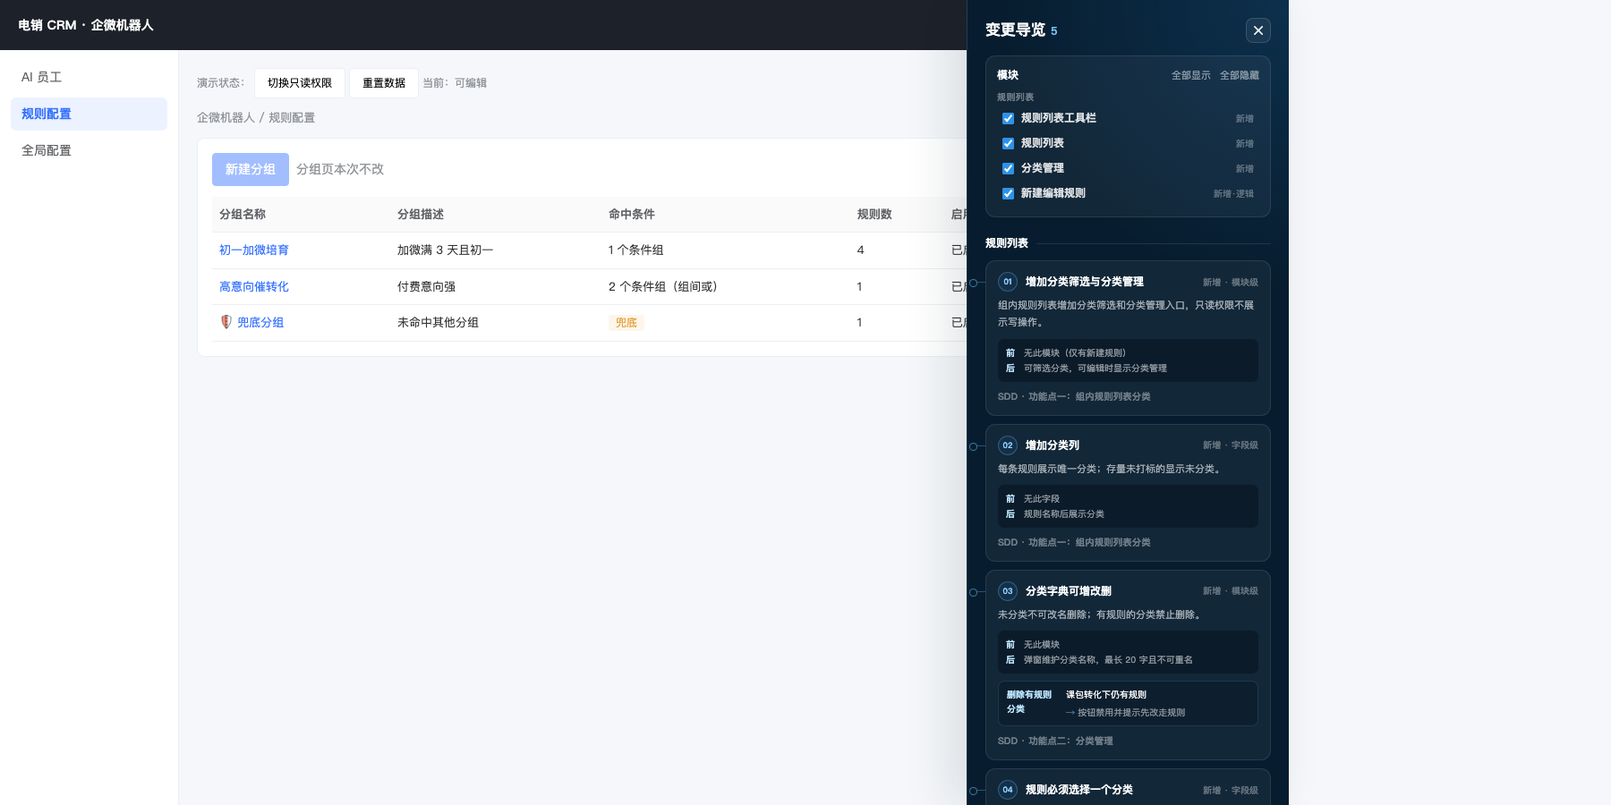
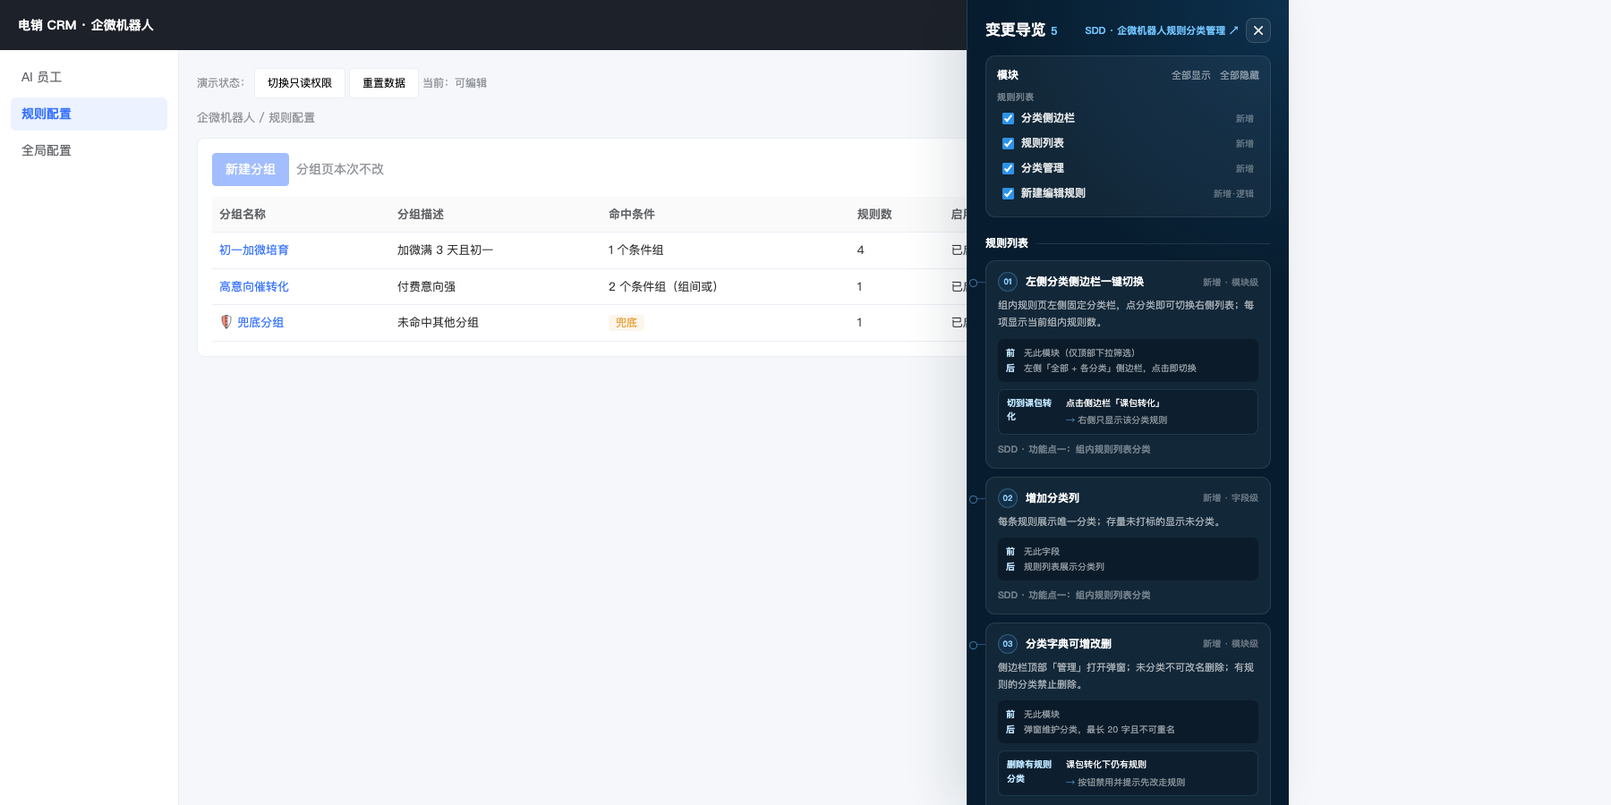
chore: 同步「企微机器人规则分类管理」原型与文档

diff --git a/企微机器人规则分类管理/index.html b/企微机器人规则分类管理/index.html
@@ -20,6 +20,7 @@ main{padding:20px}
 .btn{border:1px solid var(--line);background:#fff;border-radius:4px;padding:7px 14px;cursor:pointer;font:inherit}
 .btn.primary{background:var(--primary);border-color:var(--primary);color:#fff}
 .btn.danger{color:var(--danger);border-color:#fbc4c4}
+.btn.ghost{background:transparent}
 .btn[disabled]{opacity:.45;cursor:not-allowed}
 h1{font-size:18px;margin:0 8px 0 0;display:inline}
 .tag{display:inline-block;padding:0 8px;border-radius:4px;font-size:12px;background:#f0f2f5;color:#606266;margin-right:6px}
@@ -33,7 +34,7 @@ th{background:#fafafa;color:#606266;font-weight:600}
 .sw{width:36px;height:18px;background:#dcdfe6;border-radius:999px;position:relative;display:inline-block;vertical-align:middle;cursor:pointer}
 .sw.on{background:var(--ok)}.sw::after{content:"";position:absolute;top:1px;left:1px;width:16px;height:16px;background:#fff;border-radius:50%}
 .sw.on::after{left:19px}
-select,input[type=text]{border:1px solid #dcdfe6;border-radius:4px;padding:6px 10px;font:inherit;min-width:180px}
+select,input[type=text]{border:1px solid #dcdfe6;border-radius:4px;padding:6px 10px;font:inherit;min-width:160px}
 .err{color:var(--danger);font-size:12px;margin-top:4px}
 .modal-mask{display:none;position:fixed;inset:0;background:rgba(0,0,0,.45);align-items:center;justify-content:center;z-index:20}
 .modal-mask.is-open{display:flex}
@@ -50,6 +51,20 @@ select,input[type=text]{border:1px solid #dcdfe6;border-radius:4px;padding:6px 1
 .req::before{content:"*";color:var(--danger);margin-right:4px}
 .form-row{margin-bottom:14px}
 .form-row label{display:block;margin-bottom:6px}
+/* 组内：分类侧边栏 + 规则列表 */
+.rule-split{display:grid;grid-template-columns:220px 1fr;gap:0;border:1px solid var(--line);border-radius:8px;overflow:hidden;background:#fff;min-height:420px}
+.cat-rail{background:#fafbfc;border-right:1px solid var(--line);padding:12px 8px;display:flex;flex-direction:column}
+.cat-rail__head{display:flex;align-items:center;justify-content:space-between;padding:4px 8px 10px;font-weight:600;font-size:13px;color:#606266}
+.cat-rail__list{flex:1;overflow:auto}
+.cat-item{display:flex;align-items:center;justify-content:space-between;gap:8px;padding:9px 12px;border-radius:6px;cursor:pointer;color:#606266;margin-bottom:2px;user-select:none}
+.cat-item:hover{background:#f0f2f5}
+.cat-item.on{background:#ecf2ff;color:var(--primary);font-weight:600}
+.cat-item .cnt{font-size:12px;color:var(--muted);background:#fff;border:1px solid var(--line);border-radius:999px;min-width:22px;height:20px;display:inline-flex;align-items:center;justify-content:center;padding:0 6px}
+.cat-item.on .cnt{border-color:#c6d7ff;color:var(--primary);background:#fff}
+.cat-item .name{flex:1;min-width:0;overflow:hidden;text-overflow:ellipsis;white-space:nowrap}
+.rule-pane{padding:14px 16px;display:flex;flex-direction:column;min-width:0}
+.rule-pane__title{font-size:13px;color:var(--muted);margin-bottom:10px}
+@media(max-width:900px){.rule-split{grid-template-columns:1fr}.cat-rail{border-right:none;border-bottom:1px solid var(--line)}}
 </style>
 </head>
 <body>
@@ -87,24 +102,34 @@ select,input[type=text]{border:1px solid #dcdfe6;border-radius:4px;padding:6px 1
         <div style="font-weight:600;margin-bottom:6px">命中条件</div>
         <div>年级 等于 初一　且　加微天数 大于等于 3</div>
       </div>
-      <div class="card">
-        <div class="toolbar" id="ruleToolbar"></div>
-        <table>
-          <thead>
-            <tr>
-              <th>规则ID</th>
-              <th>规则名称</th>
-              <th>分类</th>
-              <th>规则描述</th>
-              <th>触发类型</th>
-              <th>动作类型</th>
-              <th>启用状态</th>
-              <th id="opHead">操作</th>
-            </tr>
-          </thead>
-          <tbody id="ruleBody"></tbody>
-        </table>
-        <div class="empty" id="ruleEmpty" style="display:none">当前分类下没有规则</div>
+      <div class="toolbar" id="ruleToolbar"></div>
+      <div class="rule-split" id="ruleSplit">
+        <aside class="cat-rail" id="catRail" data-diff-page="规则列表">
+          <div class="cat-rail__head">
+            <span>规则分类</span>
+            <button class="btn ghost" id="openCatBtn" style="padding:2px 8px;font-size:12px;display:none">管理</button>
+          </div>
+          <div class="cat-rail__list" id="catRailList"></div>
+        </aside>
+        <div class="rule-pane">
+          <div class="rule-pane__title" id="rulePaneTitle">全部规则</div>
+          <table>
+            <thead>
+              <tr>
+                <th>规则ID</th>
+                <th>规则名称</th>
+                <th>分类</th>
+                <th>规则描述</th>
+                <th>触发类型</th>
+                <th>动作类型</th>
+                <th>启用状态</th>
+                <th id="opHead">操作</th>
+              </tr>
+            </thead>
+            <tbody id="ruleBody"></tbody>
+          </table>
+          <div class="empty" id="ruleEmpty" style="display:none">当前分类下没有规则</div>
+        </div>
       </div>
     </div>
   </main>
@@ -155,6 +180,7 @@ const SYSTEM_UNCAT = {id:'uncat', name:'未分类', system:true};
 let canEdit = true;
 let page = 'groups';
 let currentGroupId = 1;
+let activeCat = 'all';
 let editingRuleId = null;
 let cats = [];
 let rules = [];
@@ -168,7 +194,8 @@ function toast(t){const el=document.getElementById('toast');el.textContent=t;el.
 function openModal(id){document.getElementById(id).classList.add('is-open')}
 function closeModal(id){document.getElementById(id).classList.remove('is-open')}
 function catById(id){return cats.find(c=>c.id===id)}
-function ruleCount(catId){return rules.filter(r=>r.groupId===currentGroupId && r.catId===catId).length}
+function groupRuleCount(gid){return rules.filter(r=>r.groupId===gid).length}
+function catCountInGroup(catId){return rules.filter(r=>r.groupId===currentGroupId && r.catId===catId).length}
 function resetData(){
   cats = [
     {...SYSTEM_UNCAT},
@@ -184,37 +211,55 @@ function resetData(){
     {id:201, groupId:2, name:'意向确认', desc:'确认购买意向', type:'用户消息', action:'转人工', catId:'c2', on:true},
     {id:301, groupId:3, name:'兜底话术', desc:'未命中时回复', type:'用户消息', action:'发送文本', catId:'uncat', on:true}
   ];
+  activeCat = 'all';
 }
 
 function renderGroups(){
   document.getElementById('pageGroupList').style.display = page==='groups'?'block':'none';
   document.getElementById('pageRuleList').style.display = page==='rules'?'block':'none';
-  document.getElementById('groupToolbar').innerHTML = canEdit ? '<button class="btn primary" disabled>新建分组</button><span style="color:#909399">分组页本次不改</span>' : '<span style="color:#909399">只读：无新建</span>';
+  document.getElementById('groupToolbar').innerHTML = canEdit
+    ? '<button class="btn primary" disabled>新建分组</button><span style="color:#909399">分组页本次不改</span>'
+    : '<span style="color:#909399">只读：无新建</span>';
   document.getElementById('groupBody').innerHTML = groups.map(g=>`
     <tr>
       <td><a class="link" data-open-group="${g.id}">${g.fallback?'🛡 ':''}${g.name}</a></td>
       <td>${g.desc}</td>
       <td>${g.fallback?'<span class="tag warn">兜底</span>':g.cond}</td>
-      <td>${rules.filter(r=>r.groupId===g.id).length}</td>
+      <td>${groupRuleCount(g.id)}</td>
       <td>${g.on?'已启用':'已禁用'}</td>
       <td><a class="link" data-open-group="${g.id}">查看规则</a>${canEdit?'<a class="link">编辑</a>':''}</td>
     </tr>`).join('');
+}
+
+function renderCatRail(){
+  const total = rules.filter(r=>r.groupId===currentGroupId).length;
+  const items = [
+    {id:'all', name:'全部', count:total},
+    ...cats.map(c=>({id:c.id, name:c.name, count:catCountInGroup(c.id)}))
+  ];
+  if(!items.some(i=>i.id===activeCat)) activeCat = 'all';
+  document.getElementById('catRailList').innerHTML = items.map(it=>`
+    <div class="cat-item ${activeCat===it.id?'on':''}" data-cat="${it.id}">
+      <span class="name">${it.name}</span>
+      <span class="cnt">${it.count}</span>
+    </div>`).join('');
+  const openBtn = document.getElementById('openCatBtn');
+  openBtn.style.display = canEdit ? 'inline-block' : 'none';
 }
 
 function renderRules(){
   const g = groups.find(x=>x.id===currentGroupId);
   document.getElementById('groupTitle').textContent = g.name;
   document.getElementById('groupNameCrumb').textContent = g.name;
-  const filter = document.getElementById('catFilter')?.value || 'all';
-  const list = rules.filter(r=>r.groupId===currentGroupId && (filter==='all'||r.catId===filter));
-  document.getElementById('ruleToolbar').innerHTML = `
-    ${canEdit?'<button class="btn primary" id="newRuleBtn">新建规则</button><button class="btn" id="openCatBtn">分类管理</button>':''}
-    <label>分类筛选
-      <select id="catFilter">
-        <option value="all">全部</option>
-        ${cats.map(c=>`<option value="${c.id}" ${filter===c.id?'selected':''}>${c.name}</option>`).join('')}
-      </select>
-    </label>`;
+  document.getElementById('ruleToolbar').innerHTML = canEdit
+    ? '<button class="btn primary" id="newRuleBtn">新建规则</button>'
+    : '<span style="color:#909399">只读：可切换左侧分类查看</span>';
+  renderCatRail();
+  const catName = activeCat==='all' ? '全部' : (catById(activeCat)?.name || '未分类');
+  document.getElementById('rulePaneTitle').textContent = activeCat==='all'
+    ? `全部规则（${rules.filter(r=>r.groupId===currentGroupId).length}）`
+    : `${catName}（${catCountInGroup(activeCat)}）`;
+  const list = rules.filter(r=>r.groupId===currentGroupId && (activeCat==='all'||r.catId===activeCat));
   document.getElementById('opHead').style.display = canEdit?'table-cell':'none';
   document.getElementById('ruleBody').innerHTML = list.map(r=>`
     <tr>
@@ -228,9 +273,7 @@ function renderRules(){
       ${canEdit?`<td><a class="link" data-edit="${r.id}">编辑</a><a class="link" data-copy="${r.id}">复制</a><a class="link danger" data-del="${r.id}">删除</a></td>`:''}
     </tr>`).join('');
   document.getElementById('ruleEmpty').style.display = list.length?'none':'block';
-  document.getElementById('catFilter').onchange = renderRules;
   document.getElementById('newRuleBtn')?.addEventListener('click', ()=>openRule(null));
-  document.getElementById('openCatBtn')?.addEventListener('click', openCats);
 }
 
 function renderAll(){
@@ -272,7 +315,10 @@ function openRule(id){
   document.getElementById('ruleName').value = r?.name||'';
   document.getElementById('ruleDesc').value = r?.desc||'';
   document.getElementById('ruleCatErr').textContent='';
-  document.getElementById('ruleCat').innerHTML = `<option value="">请选择</option>` + cats.map(c=>`<option value="${c.id}" ${r?.catId===c.id?'selected':''}>${c.name}</option>`).join('');
+  const prefer = r?.catId || (activeCat!=='all'?activeCat:'');
+  document.getElementById('ruleCat').innerHTML =
+    `<option value="">请选择</option>` +
+    cats.map(c=>`<option value="${c.id}" ${prefer===c.id?'selected':''}>${c.name}</option>`).join('');
   openModal('ruleMask');
 }
 
@@ -281,7 +327,10 @@ document.body.addEventListener('click', e=>{
   if(close) closeModal(close);
   if(e.target.id==='catMask'||e.target.id==='ruleMask') closeModal(e.target.id);
   const gid = e.target.dataset.openGroup;
-  if(gid){ currentGroupId=+gid; page='rules'; renderAll(); }
+  if(gid){ currentGroupId=+gid; page='rules'; activeCat='all'; renderAll(); }
+  const cat = e.target.closest('[data-cat]');
+  if(cat){ activeCat = cat.dataset.cat; renderRules(); }
+  if(e.target.id==='openCatBtn') openCats();
   if(e.target.dataset.toggle){
     const r=rules.find(x=>x.id==+e.target.dataset.toggle); if(r&&canEdit){r.on=!r.on; renderAll();}
   }
@@ -307,7 +356,9 @@ document.body.addEventListener('click', e=>{
   if(e.target.dataset.delCat){
     const id=e.target.dataset.delCat;
     if(rules.some(r=>r.catId===id)){ document.getElementById('catFormErr').textContent='该分类下仍有规则，请先将规则改到其他分类后再删除'; return; }
-    cats=cats.filter(c=>c.id!==id); toast('分类已删除'); openCats(); renderAll();
+    cats=cats.filter(c=>c.id!==id);
+    if(activeCat===id) activeCat='all';
+    toast('分类已删除'); openCats(); renderAll();
   }
 });
 
@@ -331,6 +382,7 @@ document.getElementById('saveRuleBtn').onclick=()=>{
   }else{
     rules.push({id:Math.max(...rules.map(r=>r.id))+1, groupId:currentGroupId, name, desc:document.getElementById('ruleDesc').value.trim(), type:'用户消息', action:'发送文本', catId, on:true});
   }
+  activeCat = catId;
   closeModal('ruleMask'); toast('保存成功'); renderAll();
 };
 document.getElementById('backBtn').onclick=()=>{page='groups'; renderAll();};
@@ -338,10 +390,14 @@ document.getElementById('permBtn').onclick=()=>{canEdit=!canEdit; closeModal('ca
 document.getElementById('resetBtn').onclick=()=>{resetData(); page='groups'; canEdit=true; renderAll(); toast('演示已重置');};
 document.addEventListener('keydown', e=>{ if(e.key==='Escape'){closeModal('catMask'); closeModal('ruleMask');}});
 resetData(); renderAll();
-window.__proto = {openGroup(){currentGroupId=1;page='rules';renderAll();}, openCats, openRule};
+window.__proto = {
+  openGroup(){currentGroupId=1;page='rules';activeCat='all';renderAll();},
+  selectCat(id){activeCat=id;page='rules';renderAll();},
+  openCats, openRule
+};
 window.DIFF_HOOKS = {
   locate(change){
-    if(change.page==='规则列表' || change.module==='规则列表工具栏' || change.module==='规则列表'){ currentGroupId=1; page='rules'; renderAll(); }
+    if(change.page==='规则列表' || change.module==='分类侧边栏' || change.module==='规则列表'){ currentGroupId=1; page='rules'; activeCat='all'; renderAll(); }
     if(change.module==='分类管理'){ currentGroupId=1; page='rules'; renderAll(); openCats(); }
     if(change.module==='新建编辑规则'){ currentGroupId=1; page='rules'; renderAll(); openRule(101); }
     if(change.page==='分组列表'){ page='groups'; renderAll(); }
@@ -350,17 +406,17 @@ window.DIFF_HOOKS = {
 window.DIFF_CHANGESET = {
   meta:{
     sddTitle:'SDD · 企微机器人规则分类管理',
-    sddUrl:'',
+    sddUrl:'https://guanghe.feishu.cn/docx/ZRBidHonEoyVC3xg1ZvcAlwHnAd',
     sddType:'feishu',
     demoControls:[
       {id:'perm', label:'权限', default:'edit', options:[{value:'edit',label:'可编辑'},{value:'view',label:'只读'}]}
     ]
   },
   changes:[
-    {id:'chg-1',level:'module',page:'规则列表',module:'规则列表工具栏',target:'#ruleToolbar',type:'new',title:'增加分类筛选与分类管理',desc:'组内规则列表增加分类筛选和分类管理入口，只读权限不展示写操作。',before:'无此模块（仅有新建规则）',after:'可筛选分类，可编辑时显示分类管理',sdd:{section:'功能点一：组内规则列表分类'}},
-    {id:'chg-2',level:'field',page:'规则列表',module:'规则列表',target:'#ruleBody',type:'new',title:'增加分类列',desc:'每条规则展示唯一分类；存量未打标的显示未分类。',before:'无此字段',after:'规则名称后展示分类',sdd:{section:'功能点一：组内规则列表分类'}},
-    {id:'chg-3',level:'module',page:'规则列表',module:'分类管理',target:'#catMask',type:'new',title:'分类字典可增改删',desc:'未分类不可改名删除；有规则的分类禁止删除。',before:'无此模块',after:'弹窗维护分类名称，最长 20 字且不可重名',examples:[{case:'删除有规则分类',input:'课包转化下仍有规则',result:'按钮禁用并提示先改走规则'}],sdd:{section:'功能点二：分类管理'}},
-    {id:'chg-4',level:'field',page:'规则列表',module:'新建编辑规则',target:'#ruleCat',type:'new',title:'规则必须选择一个分类',desc:'新建和编辑保存时未选分类则阻断。',before:'无此字段',after:'必选一个分类，含未分类',examples:[{case:'未选分类保存',input:'分类=请选择',result:'请选择规则分类'}],sdd:{section:'功能点三：规则选择分类'}},
+    {id:'chg-1',level:'module',page:'规则列表',module:'分类侧边栏',target:'#catRail',type:'new',title:'左侧分类侧边栏一键切换',desc:'组内规则页左侧固定分类栏，点分类即可切换右侧列表；每项显示当前组内规则数。',before:'无此模块（仅顶部下拉筛选）',after:'左侧「全部 + 各分类」侧边栏，点击即切换',examples:[{case:'切到课包转化',input:'点击侧边栏「课包转化」',result:'右侧只显示该分类规则'}],sdd:{section:'功能点一：组内规则列表分类'}},
+    {id:'chg-2',level:'field',page:'规则列表',module:'规则列表',target:'#ruleBody',type:'new',title:'增加分类列',desc:'每条规则展示唯一分类；存量未打标的显示未分类。',before:'无此字段',after:'规则列表展示分类列',sdd:{section:'功能点一：组内规则列表分类'}},
+    {id:'chg-3',level:'module',page:'规则列表',module:'分类管理',target:'#catMask',type:'new',title:'分类字典可增改删',desc:'侧边栏顶部「管理」打开弹窗；未分类不可改名删除；有规则的分类禁止删除。',before:'无此模块',after:'弹窗维护分类，最长 20 字且不可重名',examples:[{case:'删除有规则分类',input:'课包转化下仍有规则',result:'按钮禁用并提示先改走规则'}],sdd:{section:'功能点二：分类管理'}},
+    {id:'chg-4',level:'field',page:'规则列表',module:'新建编辑规则',target:'#ruleCat',type:'new',title:'规则必须选择一个分类',desc:'新建和编辑保存时未选分类则阻断；若当前侧边栏已选某分类，新建时默认带上。',before:'无此字段',after:'必选一个分类，含未分类',examples:[{case:'未选分类保存',input:'分类=请选择',result:'请选择规则分类'}],sdd:{section:'功能点三：规则选择分类'}},
     {id:'chg-5',level:'logic',page:'规则列表',module:'新建编辑规则',target:null,type:'logic',title:'复制保留分类',desc:'复制规则或复制分组时，规则带着原来的分类。',before:'无分类字段',after:'副本分类与来源相同',sdd:{section:'功能点三：规则选择分类'}}
   ]
 };

diff --git a/企微机器人规则分类管理/PRD-企微机器人规则分类管理.md b/企微机器人规则分类管理/PRD-企微机器人规则分类管理.md
@@ -5,12 +5,13 @@
 | 版本号 | 修改日期 | 修改原因 | 修订人 |
 |---|---|---|---|
 | v1.0 | 2026-09-22 | 初稿 | AI PRD Writer |
+| v1.1 | 2026-09-22 | 分类改为组内左侧边栏切换 | AI PRD Writer |
 
 ## 二、需求概述
 
 - **背景/现状**：当运营在规则配置中维护大量规则时，组内规则列表无法按业务用途归类查看，查找和改规则成本高。
-- **需求目标**：当运营进入某个规则组的规则列表时，系统应允许按分类查看、筛选和维护规则，且每条规则有且仅有一个分类。
-- **核心逻辑简述**：当运营打开组内规则列表时，系统应展示分类、提供分类筛选和分类管理；当运营新建或编辑规则时，系统应要求选择一个分类后才能保存。
+- **需求目标**：当运营进入某个规则组的规则列表时，系统应通过左侧分类侧边栏一键切换查看规则，且每条规则有且仅有一个分类。
+- **核心逻辑简述**：当运营打开组内规则列表时，系统应在左侧展示「全部」与各分类，点击即可切换右侧列表；当运营新建或编辑规则时，系统应要求选择一个分类后才能保存。
 
 ## 三、术语表
 
@@ -24,7 +25,7 @@
 
 | 功能模块 | 调整内容 |
 |---|---|
-| 组内规则列表 | 增加分类列、分类筛选；可编辑时增加分类管理入口。 |
+| 组内规则列表 | 左侧增加分类侧边栏（全部 + 各分类，显示规则数）；右侧列表增加分类列；可编辑时侧边栏提供分类管理入口。 |
 | 分类管理 | 新增、改名、删除分类；名称全局唯一，最长 20 个字。 |
 | 新建/编辑规则 | 增加必选分类。 |
 | 复制规则/复制分组 | 副本保留原分类。 |
@@ -57,7 +58,7 @@ flowchart TD
 
 可交互原型（公网，点击可直接操作）：https://leo-ai05.github.io/prototypes/%E4%BC%81%E5%BE%AE%E6%9C%BA%E5%99%A8%E4%BA%BA%E8%A7%84%E5%88%99%E5%88%86%E7%B1%BB%E7%AE%A1%E7%90%86/
 
-内网预览（需飞连）：https://pages.yc345.tv/prototypes-720e80/wework-bot-rule-category-proto/
+内网预览（需飞连 · GitLab SDD实践）：https://pages.yc345.tv/prototypes-720e80/SDD%E5%AE%9E%E8%B7%B5/%E4%BC%81%E5%BE%AE%E6%9C%BA%E5%99%A8%E4%BA%BA%E8%A7%84%E5%88%99%E5%88%86%E7%B1%BB%E7%AE%A1%E7%90%86/prototype.html
 
 GitHub 预览（公网）：[点击查看](https://leo-ai05.github.io/prototypes/%E4%BC%81%E5%BE%AE%E6%9C%BA%E5%99%A8%E4%BA%BA%E8%A7%84%E5%88%99%E5%88%86%E7%B1%BB%E7%AE%A1%E7%90%86/)
 
@@ -67,13 +68,14 @@ GitHub 预览（公网）：[点击查看](https://leo-ai05.github.io/prototypes
 
 可操作路径：
 
-1. 点击分组进入规则列表，查看分类列并用分类筛选。
-2. 点击分类管理，新增、改名；对仍有规则的分类尝试删除，查看阻断提示。
-3. 点击新建规则，不选分类点保存，查看必填提示；选择分类后保存。
-4. 点击复制，确认副本分类与原规则相同。
-5. 点击切换只读权限，确认分类管理、新建和行内写操作不再展示。
+1. 点击分组进入规则列表，查看左侧分类侧边栏与右侧规则表。
+2. 点击侧边栏「课包转化」，确认右侧只显示该分类规则。
+3. 点击侧边栏「管理」，新增、改名；对仍有规则的分类尝试删除，查看阻断提示。
+4. 点击新建规则，不选分类点保存，查看必填提示；选择分类后保存。
+5. 点击复制，确认副本分类与原规则相同。
+6. 点击切换只读权限，确认仍可点侧边栏切换，但管理/新建/行内写操作不再展示。
 
-关键态截图：`需求汇总/企微机器人规则分类管理/proto-shots/`
+关键态截图：`需求汇总/企微机器人规则分类管理/proto-shots/`，共 6 张
 
 ## 七、功能需求详细描述
 
@@ -81,14 +83,15 @@ GitHub 预览（公网）：[点击查看](https://leo-ai05.github.io/prototypes
 
 | 功能名称 | 功能说明 | 功能类型 | 是否必填 | 交互说明 | 备注 |
 |---|---|---|---|---|---|
-| 分类列 | 展示该规则当前所属分类。 | 列表字段 | 是 | 显示在规则名称之后；未改过分类的存量规则显示未分类。 | 只读权限同样可见。 |
-| 分类筛选 | 按分类过滤当前组内规则。 | 筛选 | 否 | 选项为全部分类加「全部」；切换后只刷新当前组规则列表。 | 默认显示全部。 |
-| 分类管理入口 | 打开分类管理弹窗。 | 按钮 | 否 | 仅可编辑权限展示，放在新建规则附近。 | 只读不展示。 |
+| 分类侧边栏 | 左侧固定展示「全部」与各分类，点击切换右侧列表。 | 导航 | 是 | 每项显示当前组内该分类的规则数；默认选中「全部」。 | 只读权限同样可切换。 |
+| 分类列 | 展示该规则当前所属分类。 | 列表字段 | 是 | 显示在规则名称旁；未改过分类的存量规则显示未分类。 | 只读权限同样可见。 |
+| 分类管理入口 | 打开分类管理弹窗。 | 按钮 | 否 | 仅可编辑权限展示，放在侧边栏标题旁「管理」。 | 只读不展示。 |
 
 异常与兜底：
 
-1. 当前筛选分类下没有规则时，展示空列表提示「当前分类下没有规则」。
-2. 分组列表页不增加分类列、不增加按分类筛选。
+1. 当前侧边栏选中分类下没有规则时，展示空列表提示「当前分类下没有规则」。
+2. 分组列表页不增加分类列、不增加分类侧边栏。
+3. 新建规则时，若侧边栏已选中某个具体分类，分类下拉默认带上该分类，仍可改选。
 
 ### 7.2 分类管理
 
@@ -126,7 +129,7 @@ GitHub 预览（公网）：[点击查看](https://leo-ai05.github.io/prototypes
 
 | 功能名称 | 功能说明 | 功能类型 | 是否必填 | 交互说明 | 备注 |
 |---|---|---|---|---|---|
-| 编辑权限 | 沿用现有规则配置编辑权限。 | 权限 | 是 | 无编辑权限时仍可看分类列和筛选，不可管理分类、不可改规则分类。 | 不新增权限点。 |
+| 编辑权限 | 沿用现有规则配置编辑权限。 | 权限 | 是 | 无编辑权限时仍可切换侧边栏并看分类列，不可管理分类、不可改规则分类。 | 不新增权限点。 |
 | 存量归类 | 上线前已有规则进入未分类。 | 默认处理 | 是 | 运营可随后改到其他分类。 | 不追溯改执行结果。 |
 
 ### 7.5 测试数据说明
